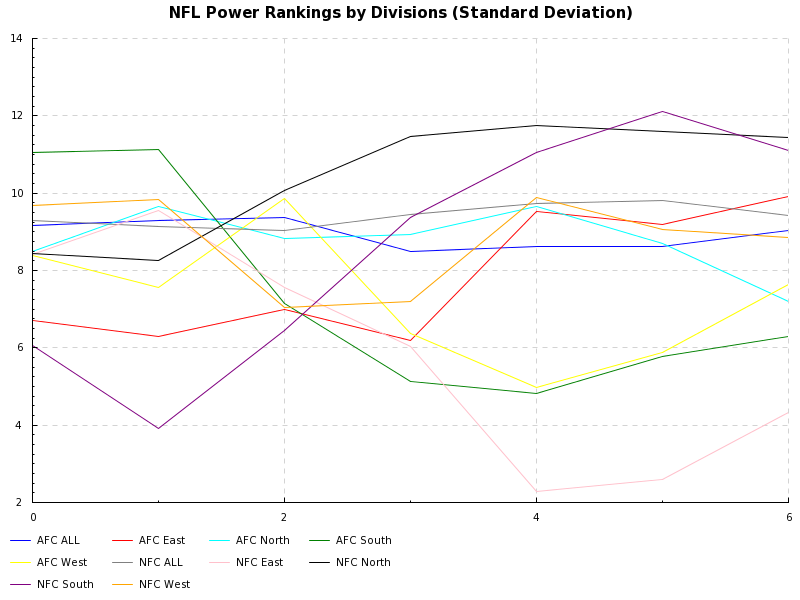
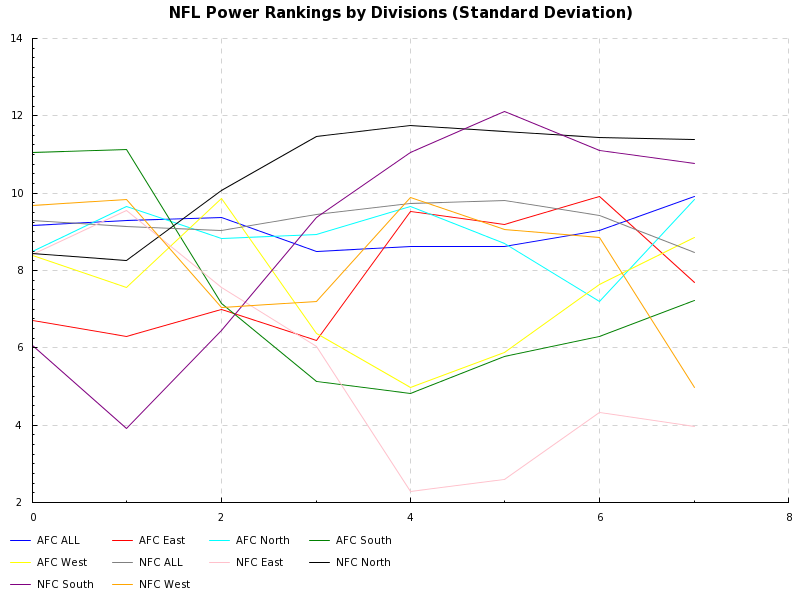
week 7.

diff --git a/README.md b/README.md
@@ -1,5 +1,22 @@
 ![average](https://github.com/mfine/nfl-divisions-power-rankings/blob/master/RESULTS-average.png)
 ![std dev](https://github.com/mfine/nfl-divisions-power-rankings/blob/master/RESULTS-std-dev.png)
+### Week-7
+
+```
+Division         Mean    Std Dev
+--------         ----    -------
+AFC East        10.50       7.70
+AFC North       14.75       9.83
+NFC South       15.75      10.78
+NFC West        15.75       4.97
+NFC ALL         16.12       8.47
+NFC East        16.25       3.96
+NFC North       16.75      11.39
+AFC ALL         16.88       9.92
+AFC West        17.50       8.85
+AFC South       24.75       7.22
+```
+
 ### Week-6
 
 ```
